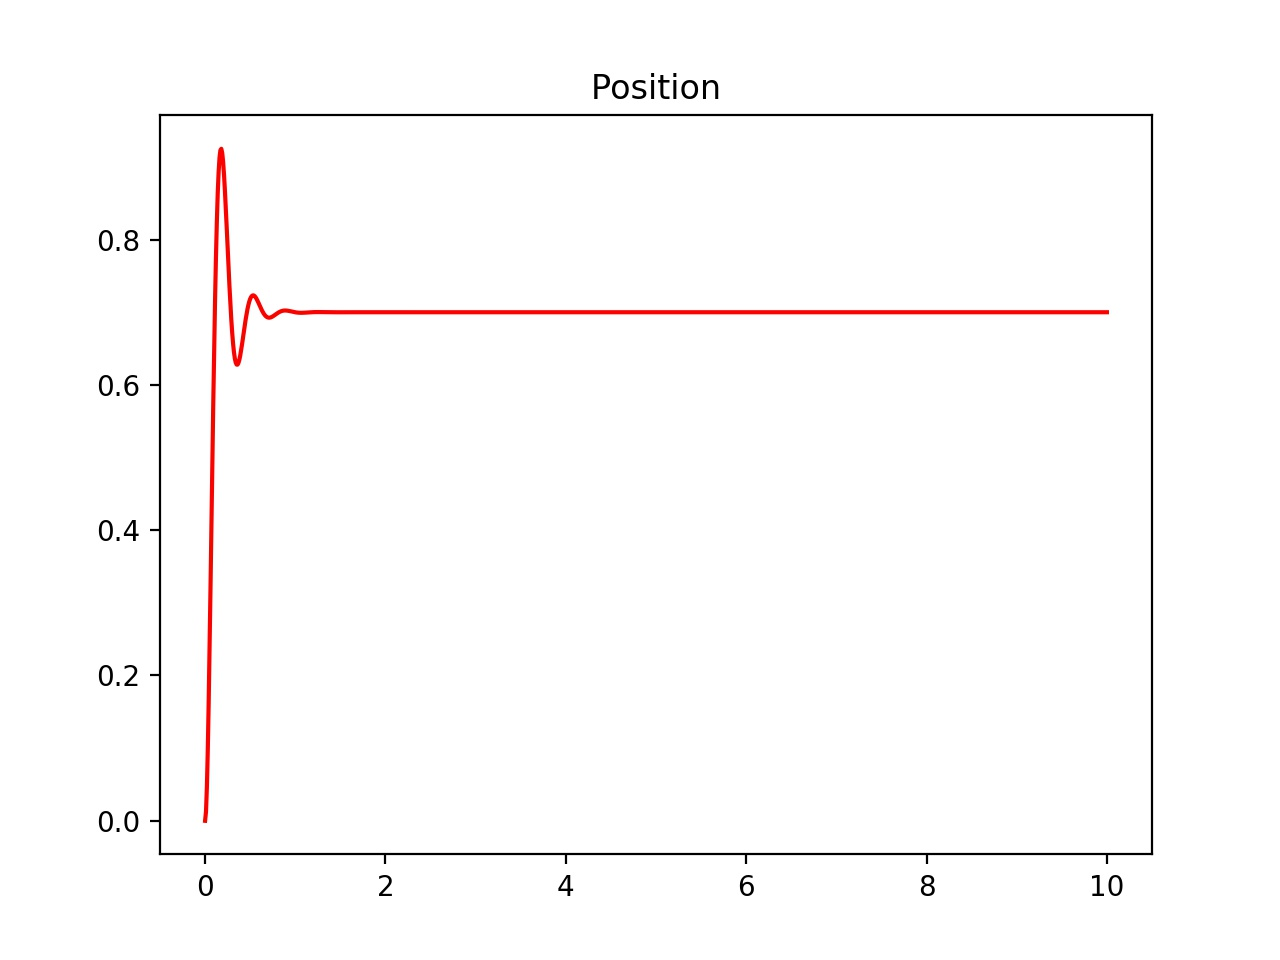
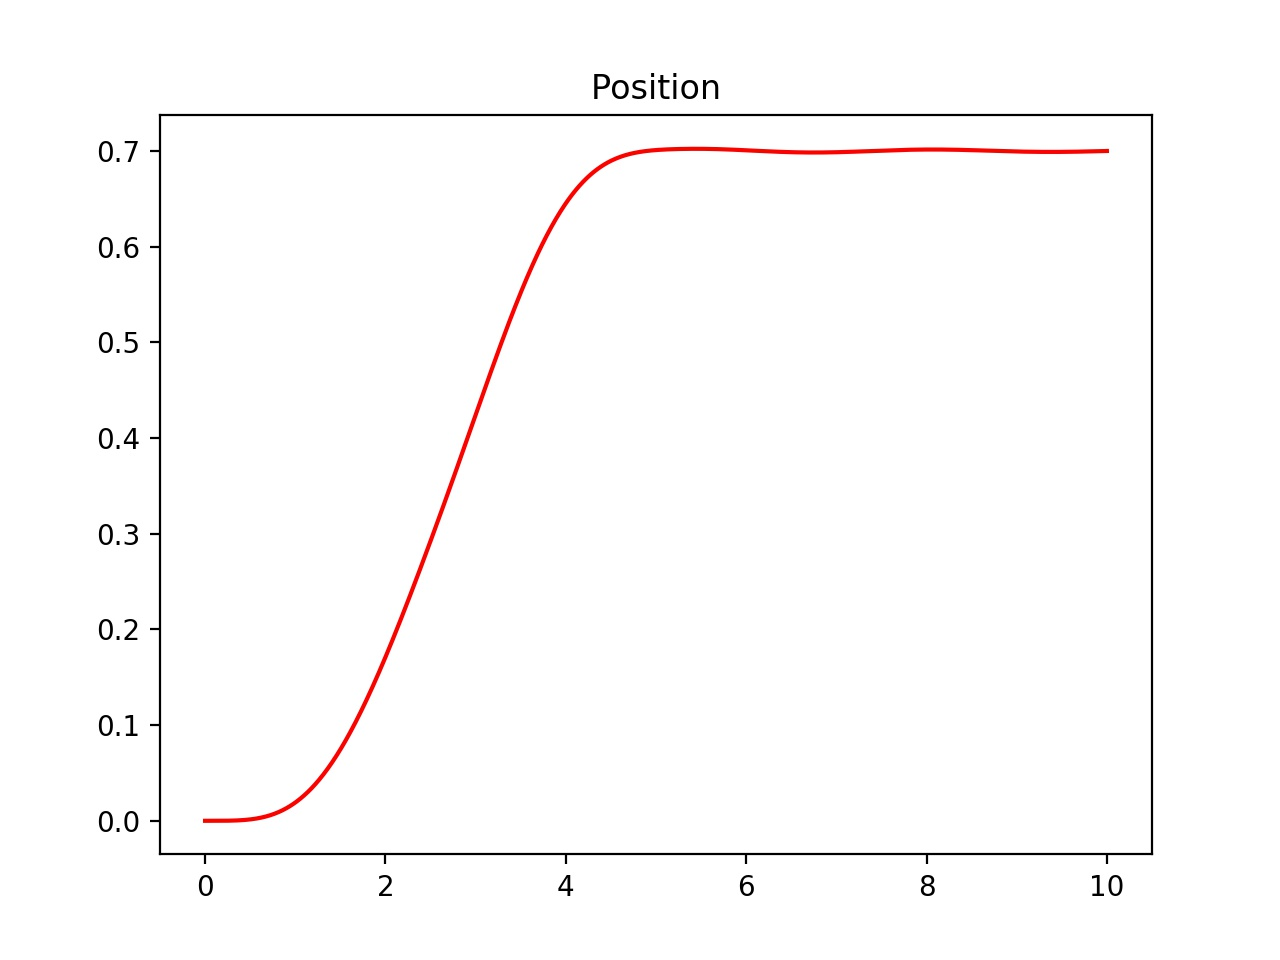
first update in a while profiling added

diff --git a/UnitTest.py b/UnitTest.py
@@ -8,6 +8,7 @@ Created on Thu Aug 17 00:34:32 2017
 
 import numpy as np
 import matplotlib.pyplot as plt # plotting package
+import profile as prof
 
 #dt in seconds
 controller_time_step = .01 #10 milliseconds
@@ -19,7 +20,6 @@ total_time = 10
 class GearPickup:
     
     def __init__(self):
-        
         # Stall Torque in N m
         self.stall_torque = 0.71
         # Stall Current in Amps
@@ -31,7 +31,7 @@ class GearPickup:
         #gear ratio
         self.G = 20.0
         #Moment of Inertia
-        self.J = .01
+        self.J = .41
         # Resistance of the motor
         self.R = .0895
         # Motor velocity constant
@@ -58,34 +58,49 @@ class ControlSimulator:
         
         self.gearPickup = GearPickup
         
+        #saturated max and min voltage outputs to motor
         self.max_saturation = 12
         self.min_saturation = -12
         
-        self.Kp = 3 #2000
+        #PID Gains set here
+        self.Kp = 2
         self.Ki = 0
-        self.Kd = .15  #30
+        self.Kd = .15
         
-    def controlLoop(self, sim_time_step, controller_time_step, total_time, step):
+    #main control loop that runs the PID controller    
+    def controlLoop(self, sim_time_step, controller_time_step, total_time, profile):
         
         time = 0
         
         position = 0
         velocity = 0
         
+        #output to the motor
         output_voltage = 0
         
         error = 0
         last_error = 0
         
+        #collection of the position of the appendage along with the time it was there for graphing
         positions = []
         times = []
         
         i = 0
         d =0
+    
+        #set the first target to the first reference in the generated motion profile
+        ref = profile[0]
         
+        index = 0
+        
+        print(len(profile))
+        
+        #control loop
         while (time <= total_time):
             
-            error = step - position 
+            ref = profile[index]
+            
+            error = ref - position 
             
             i += error
             d = error - last_error
@@ -94,7 +109,7 @@ class ControlSimulator:
             I = self.Ki * i
             D = self.Kd * d
             
-            output_voltage = P + I + D
+            output_voltage = P + I + D 
     
             if (output_voltage > self.max_saturation):
                 output_voltage = self.max_saturation
@@ -113,10 +128,14 @@ class ControlSimulator:
             position += outputs[0] 
             velocity = outputs[1]
             
+            if (index < (len(profile) - 1)):
+                index += 1
+            
         plt.title("Position")
         plt.plot(times, positions, 'r')
         plt.savefig('UnitTest.jpg')
         
+    #integrator that solves for position and velocity from acceleration getter method
     def simulate(self, total_dt, sim_dt, voltage, velocity_init):
         
         time = 0
@@ -139,8 +158,10 @@ class ControlSimulator:
         outputs = [position, velocity]
             
         return outputs
-        
-       
+    
+profiler = prof.TrapazoidalProfile(.1, 5, .01)
+
+profile = profiler.generateProfile(.7)
 
 gearPickup = GearPickup()
 
@@ -148,6 +169,6 @@ gearPickup.getConstants()
 
 simulation = ControlSimulator(gearPickup)
 
-simulation.controlLoop(sim_time_step, controller_time_step, total_time, .7)
+simulation.controlLoop(sim_time_step, controller_time_step, total_time, profile)
     
 

diff --git a/profile.py b/profile.py
@@ -1,0 +1,93 @@
+#!/usr/bin/env python3
+# -*- coding: utf-8 -*-
+"""
+Created on Sat Sep  2 13:38:43 2017
+
+@author: maxkwon
+"""
+import numpy as np
+import matplotlib.pyplot as plt # plotting package
+
+class TrapazoidalProfile:
+    
+    def __init__(self, max_acc, max_vel, time_):
+        
+        self.set_time = time_
+        
+        self.time_dt = 0.00001
+        
+        self.max_acc = max_acc
+        
+        self.max_vel = max_vel
+        
+        self.ramp_time = self.max_vel/self.max_acc
+        
+        self.ramp_dis = 0.5*(self.max_vel * self.ramp_time)
+        
+        self.iterations = time_/self.time_dt
+        
+        
+        
+    def generateProfile(self, target):
+        
+        positions = []
+        vels = []
+        times = []
+        
+        time = self.time_dt
+        pos = 0
+        vel = 0
+        acc = self.max_acc
+        
+        last_vel = 0
+        last_pos = 0
+        
+        counter = 0
+        
+        print(int(self.iterations))
+        
+        while (pos <= target):
+            
+            time += self.time_dt
+            
+            ramp_time = vel/self.max_acc
+            
+            ramp_dis = 0.5*(vel*ramp_time)
+                    
+            if (target-ramp_dis <= pos):
+                
+                acc = -1.0 * self.max_acc
+                
+            elif (vel < self.max_vel):
+
+                acc = self.max_acc
+                
+            else:
+                
+                acc = 0
+            
+            pos = last_pos + (vel * self.time_dt)
+            last_pos = pos
+            
+            vel = last_vel + (acc * self.time_dt)
+            last_vel = vel
+                
+            if (counter == int(self.iterations)):
+                counter = 0
+                vels.append(vel)
+                positions.append(pos)
+                times.append(time)
+                print(pos, vel, time, self.iterations)
+            
+            counter += 1
+            
+            
+    #    plt.title("Profile")
+     #   plt.plot(times, positions, 'r')
+      #  plt.savefig('Profile.jpg')
+        
+        return positions
+        
+#profile = TrapazoidalProfile(5, 10, .01)
+
+#profile.generateProfile(10)
